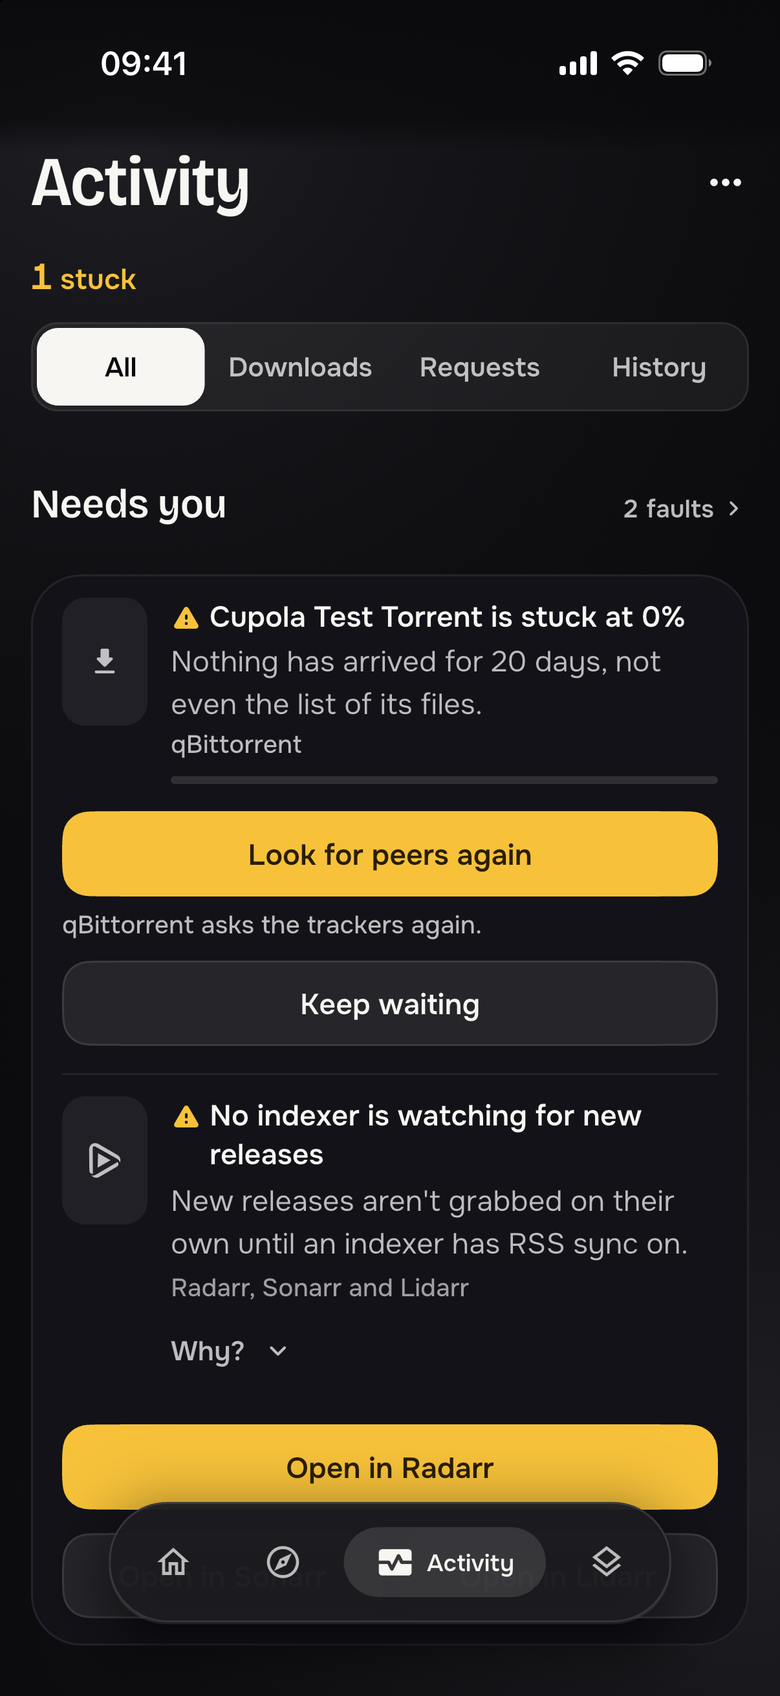
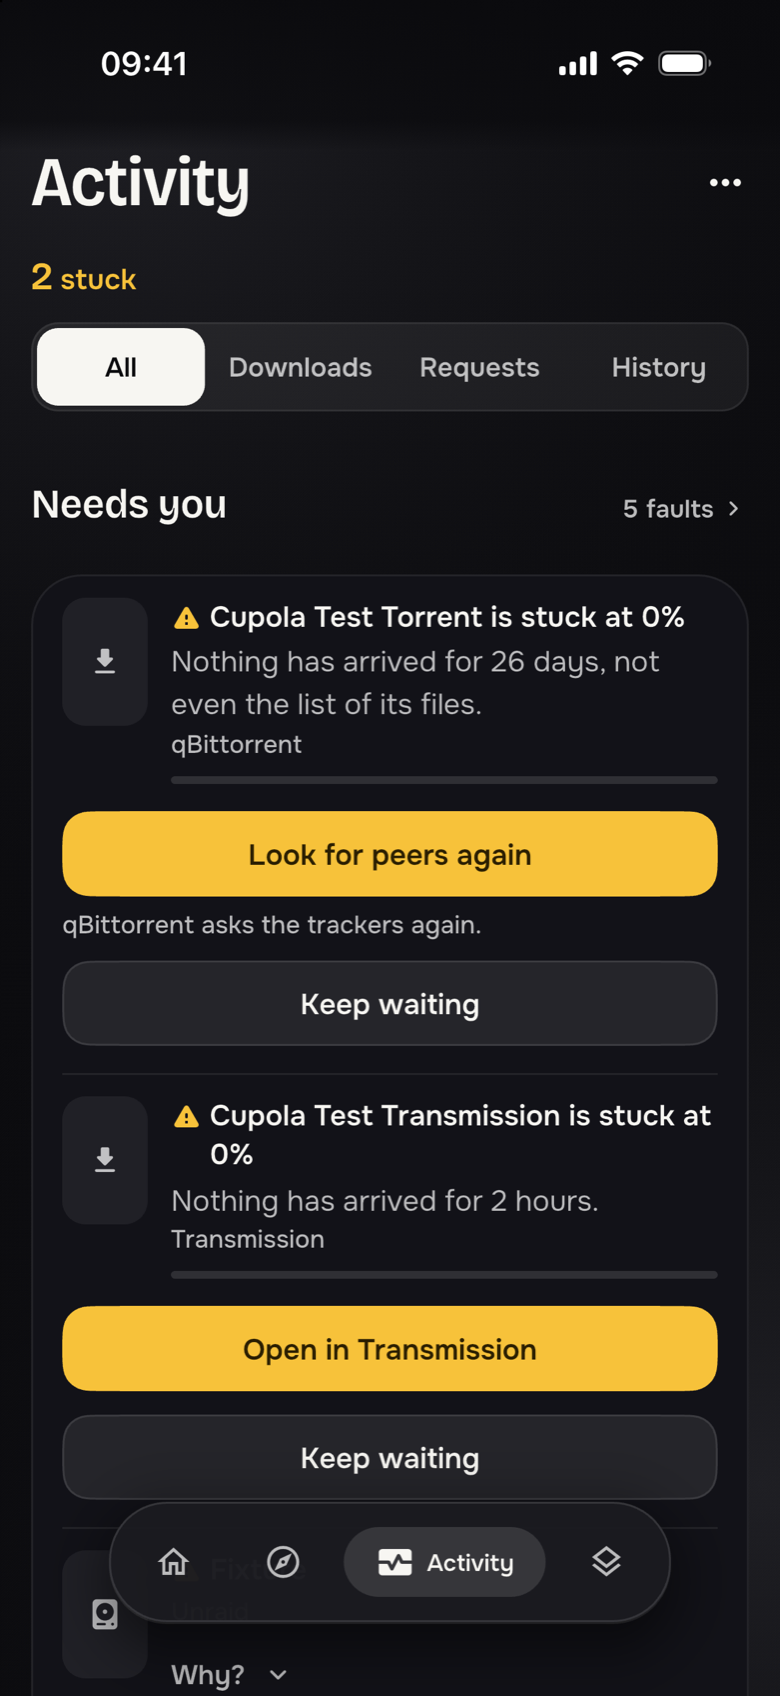
chore(release): 1.0 notes, desktop builds on CI, a store that keeps silent
- CHANGELOG.md with the 1.0.0 notes: what is in it, how to install it, known limits
- README brought up to date: Readarr is manage-only, Plex read live, Unraid tested
  against recorded answers, widgets and notifications, two addresses, a new phone in
  one code, the cupola:// scheme, Windows and Linux from CI; fresh Stack and Activity
- Desktop builds workflow: Windows and Linux built on GitHub, by hand or on a tag
- The tip sheet falls back to Ko-fi when the store does not answer in 8 seconds
- macOS Podfile.lock gains workmanager_apple

diff --git a/lib/features/settings/data/donation_service.dart b/lib/features/settings/data/donation_service.dart
@@ -47,14 +47,23 @@ class DonationService {
 
   // ── IAP helpers ───────────────────────────────────────────────────────────
 
+  /// How long the sheet waits for the store before it falls back to Ko-fi. A
+  /// sideloaded build talks to a store that knows nothing of it, and a silent
+  /// one must not leave the sheet spinning.
+  static const Duration storeTimeout = Duration(seconds: 8);
+
   /// Queries the App Store for the configured products.
-  /// Throws if the store is unavailable.
+  /// Throws if the store is unavailable or does not answer in [storeTimeout].
   static Future<ProductDetailsResponse> fetchProducts() async {
-    final available = await InAppPurchase.instance.isAvailable();
+    final available = await InAppPurchase.instance.isAvailable().timeout(
+      storeTimeout,
+    );
     if (!available) {
       throw Exception('App Store is not available on this device.');
     }
-    return InAppPurchase.instance.queryProductDetails(productIds);
+    return InAppPurchase.instance
+        .queryProductDetails(productIds)
+        .timeout(storeTimeout);
   }
 
   /// Initiates a consumable purchase for the given [product].

diff --git a/lib/features/settings/presentation/widgets/donation_sheet.dart b/lib/features/settings/presentation/widgets/donation_sheet.dart
@@ -81,7 +81,7 @@ class _DonationSheetState extends State<DonationSheet> {
         _loading = false;
       });
     } catch (_) {
-      // Store unavailable: fall back to Ko-fi.
+      // Store unavailable or silent: fall back to Ko-fi.
       if (!mounted) return;
       Navigator.of(context).pop(true);
     }

diff --git a/README.md b/README.md
@@ -125,7 +125,7 @@ Two columns are worth reading before you judge an integration:
 | **Sonarr** | Everything Radarr does, plus seasons and episodes with per-season / per-episode search | API key | Read + write | ✅ |
 | **Lidarr** | Everything Radarr does, plus an artist's page with every album and where it stands | API key | Read + write | ✅ |
 | **Bazarr** | Subtitle library, wanted episodes and movies, history, providers (and resetting their throttles) | API key | Mostly read | ◐ |
-| **Readarr** | Author pages with every book and where it stands; search, monitor, add and delete | API key | Read + write | ◐ |
+| **Readarr** | Author pages with every book and where it stands; search, monitor and delete. Adding authors is left out: Readarr is retired and its metadata service no longer answers | API key | Manage | ◐ |
 
 ### Downloads
 
@@ -142,7 +142,7 @@ Two columns are worth reading before you judge an integration:
 | Service | What Cupola does | Auth | Control | Tested |
 | --- | --- | --- | --- | :-: |
 | **Jellyfin** | Who is watching right now, transcode reasons, resume points, libraries, users, devices and tasks; pause, stop or message a session | API key + viewer, or a user's own sign-in | Read + sessions | ✅ |
-| **Plex** | The same session-first board, driven by Plex's own semantics: libraries, on deck, devices, playlists; stop a session with a reason | Token | Read + stop | ○ |
+| **Plex** | The same session-first board, driven by Plex's own semantics: libraries, on deck, devices, playlists; stop a session with a reason | Token | Read + stop | ◐ |
 
 ### Infrastructure
 
@@ -150,8 +150,11 @@ Two columns are worth reading before you judge an integration:
 | --- | --- | --- | --- | :-: |
 | **TrueNAS** | Full console: dashboard, pools and disks, datasets and snapshots, SMB/NFS shares, apps, virtualization, replication and periodic tasks, reporting, users and groups; a disk with errors offers the scrub that repairs it | API key | Read + write | ◐ |
 | **Dockge** | Compose stacks with live terminal output: start, stop, restart, update, down, and edit or deploy the compose file itself | User + password | Read + write | ✅ |
-| **Unraid** | Array status, disks, shares, Docker containers, VMs and notifications; start and stop VMs, archive notifications | API key | Read + VMs | ○ |
+| **Unraid** | Array status, disks, shares, Docker containers, VMs and notifications; start and stop VMs, archive notifications | API key | Read + VMs | ○ ¹ |
 | **Nginx Proxy Manager** | What the box is fronting, what is broken, which certificates are about to lapse; enable/disable hosts, retarget a forward, renew a certificate | Email + password | Read + write | ◐ |
+
+¹ Unraid is an operating system rather than a container, and we do not run one, so its
+integration is tested against recorded answers from its API, never against a server.
 
 ---
 
@@ -212,6 +215,36 @@ TrueNAS's full console.
 - Grab something automatically, or open the release list and choose it yourself
 - Flip monitoring, change quality profile, import files that landed in the wrong place
 - Delete properly, with a clear say over the files and over whether it can come back
+
+</details>
+
+<details>
+<summary><b>Outside the app: widgets and notifications</b></summary>
+<br/>
+
+Home-screen widgets on iOS and Android: *Coming up* and *Downloads* for whoever runs
+the stack (Downloads also on the iPhone lock screen), *Requests* for a household
+member. Two notifications, both off until you turn them on in **Settings →
+Notifications**: *Needs you*, when something on the stack turns into a fault, and
+*Ready to watch*, when something you asked for arrives. The phone works them out
+itself, in the background, against your own services: there is no push server.
+How often that background run happens is up to the operating system.
+
+</details>
+
+<details>
+<summary><b>At home and away</b></summary>
+<br/>
+
+A connection can carry two addresses: the one it has at home and the one it has
+away from it (a reverse proxy, a tunnel, a VPN name). Cupola knocks on both and uses
+whichever answers, so the same app works on the sofa and on the train. A service that
+only exists at home says so, with the last thing it knew, instead of failing.
+
+Setting up a second phone takes one code: **Settings → Security → Set up another
+device** copies every connection across, encrypted, over your own Wi-Fi. To bring in
+someone from the household, **Invite someone** from Seerr gives them a link or a QR
+code that carries the server's address, never its API key.
 
 </details>
 
@@ -280,7 +313,7 @@ running while Cupola is open.
 | **Android** | Supported | `.apk` |
 | **macOS** | Supported | `.dmg` |
 | **iOS** | Supported (sideload) | unsigned `.ipa` |
-| Windows / Linux | Builds, untested | build from source, on that system |
+| Windows / Linux | Built by CI, untested | `.zip` / `.tar.gz` |
 | Web | Not a goal | none |
 
 <details>
@@ -310,7 +343,7 @@ that applies an ad-hoc signature on install:
 
 - [**AltStore**](https://altstore.io/): refreshes over Wi-Fi from the same machine
 - [**Sideloadly**](https://sideloadly.io/): desktop tool, no account needed on macOS
-- [**Sideload**](https://sideload.app/): web-based, runs in the browser
+- [**SideStore**](https://sidestore.io/): AltStore's sibling, refreshes on the phone itself
 
 Ad-hoc signatures expire, so the app needs periodic re-installation: **7 days** with
 a free Apple ID, **1 year** with a paid Apple Developer account.
@@ -321,9 +354,11 @@ a free Apple ID, **1 year** with a paid Apple Developer account.
 <summary><b>Windows, Linux</b></summary>
 <br/>
 
-Both have a real runner with the desktop window, and `scripts/release.sh windows` or
-`linux` builds them, but only on that operating system, and we have not run either
-yet. If you do, a report either way helps. There is no web client, by design.
+Both have a real runner with the desktop window. Each release carries a build made by
+GitHub Actions: on Windows unzip it and run `cupola.exe` (the build is not signed, so
+SmartScreen asks once); on Linux untar it and run `cupola` (it needs GTK 3 and
+libsecret, present on most desktops). We have not run either ourselves, so a report
+either way helps. There is no web client, by design.
 
 </details>
 
@@ -455,7 +490,7 @@ lib/
 | --- | --- |
 | UI | Flutter + Material 3, a fixed palette and design tokens, bundled Bricolage Grotesque, Onest and Geist Mono |
 | State | Riverpod 3: `FutureProvider` for loads, `NotifierProvider` for persisted state |
-| Navigation | go_router; every detail route resolves from path params alone, so any screen is addressable by path (no URL scheme is registered yet, so nothing outside the app can open one) |
+| Navigation | go_router; every detail route resolves from path params alone, so any screen is addressable by path, and the `cupola://` scheme lets a widget, a notification or an invite open one |
 | HTTP | Dio, shared `ApiClient` with `X-Api-Key` for the *arr family |
 | Other transports | qBittorrent WebUI v2 form login, Socket.IO for Dockge, WebSocket JSON-RPC for TrueNAS |
 | Storage | `flutter_secure_storage` for secrets, `shared_preferences` for settings |
@@ -486,10 +521,10 @@ page is implemented and running rather than planned. The badge at the top points
 latest published release, which trails `main` between tags. 1.0.0 is the first release
 of the Cupola line, and everything before it was published as Seekarr.
 
-- **17 services integrated.** **11 we have verified against real instances**, 4
-  partially, 2 written to the official API but not yet exercised live. The
+- **17 services integrated.** **11 we have verified against real instances**, 5
+  partially, and Unraid against recorded answers only. The
   [tables above](#supported-services) say which is which, per service.
-- **About 730 test files** covering models, services, providers and widgets, offline
+- **About 750 test files** covering models, services, providers and widgets, offline
   by default, with an opt-in Docker-backed end-to-end tier against real services
 - **Accessibility is part of the definition of done.** Dynamic Type, contrast, touch
   targets and screen-reader labels are held by tests. If something reads badly with
@@ -560,8 +595,8 @@ bug worth fixing).
 <details>
 <summary><b>Can I run it on Linux or Windows?</b></summary>
 <br/>
-You can build it on that system, and it should work: both have the same desktop window
-as macOS. We have not run either yet, so a report is welcome.
+Yes: each release carries a Windows and a Linux build made by GitHub Actions, with the
+same desktop window as macOS. We have not run either ourselves, so a report is welcome.
 </details>
 
 <details>

diff --git a/CHANGELOG.md b/CHANGELOG.md
@@ -1,0 +1,59 @@
+# Changelog
+
+## 1.0.0
+
+The first release of Cupola. Everything before it was published as Seekarr (up to
+0.8.0) and covered fewer services; this one is a new app rather than an update.
+
+### What is in it
+
+- **17 services in one app:** Seerr, Radarr, Sonarr, Lidarr, Bazarr, Readarr,
+  qBittorrent, Transmission, Prowlarr, SABnzbd, NZBGet, Jellyfin, Plex, TrueNAS,
+  Dockge, Unraid and Nginx Proxy Manager. The README says, per service, how far
+  Cupola goes and whether we have tested it against a real instance.
+- **Home:** what arrived, what comes out next, what you were halfway through and what
+  needs you, as modules you keep, order or leave out.
+- **Discover:** trending, a calendar, every way in (genres, networks, studios,
+  people, decades), one search across Seerr, the *arrs, Jellyfin and Plex, and one
+  page per title to decide and act.
+- **Activity:** *Needs you* says what went wrong in plain words and leads with the
+  way out; downloads from all four clients sit in one list that keeps itself up to
+  date.
+- **Stack:** every service in its own room, with its own tabs.
+- **For the household:** a member signs in to Seerr with their own account and gets
+  Home, Discover and their requests, without the operator's controls.
+- **Widgets and notifications** on iOS and Android, worked out on the phone itself:
+  no push server. Notifications are off until you turn them on.
+- **At home and away:** a connection can carry a second address for when you are out,
+  and Cupola uses whichever answers.
+- **A new phone in one code:** *Set up another device* copies every connection over
+  your home network, encrypted. *Invite someone* hands a household member the way to
+  your Seerr, never its API key.
+- **Self-signed certificates and gateways:** trust on first use with pinning per
+  host; Cloudflare Access service tokens, proxy passwords and custom headers.
+- Light and dark themes, large text, VoiceOver and TalkBack, phone first and then
+  tablet and desktop.
+
+### Install
+
+| Platform | File | Notes |
+| --- | --- | --- |
+| Android | `.apk` | Allow installs from unknown sources for your browser or file manager. |
+| macOS | `.dmg` | Not notarized: the first time, right-click Cupola and choose **Open**. |
+| iOS | unsigned `.ipa` | Install with AltStore, SideStore or Sideloadly. With a free Apple ID the install lasts **7 days** and has to be refreshed. |
+| Windows | `.zip` | Built by GitHub Actions and not signed: SmartScreen asks once. |
+| Linux | `.tar.gz` | Built by GitHub Actions; needs GTK 3 and libsecret. |
+
+### Known limits
+
+- **Unraid** is tested against recorded answers from its API, never against a real
+  server: we do not run one. A report from someone who does is very welcome.
+- **Windows and Linux** builds are made by CI and we have not run them ourselves.
+- **Plex, Bazarr, Readarr, TrueNAS and Nginx Proxy Manager** have been read against
+  real instances, but not every action has been run against one.
+- **Readarr is manage-only:** no adding authors, because Readarr is retired and its
+  metadata service no longer answers. Everything already in your library works.
+- **Background refresh is the operating system's call.** Widgets and notifications
+  update when iOS or Android lets the app run, which can be less often than you
+  would like, especially on iOS.
+- **English only**, by design.
